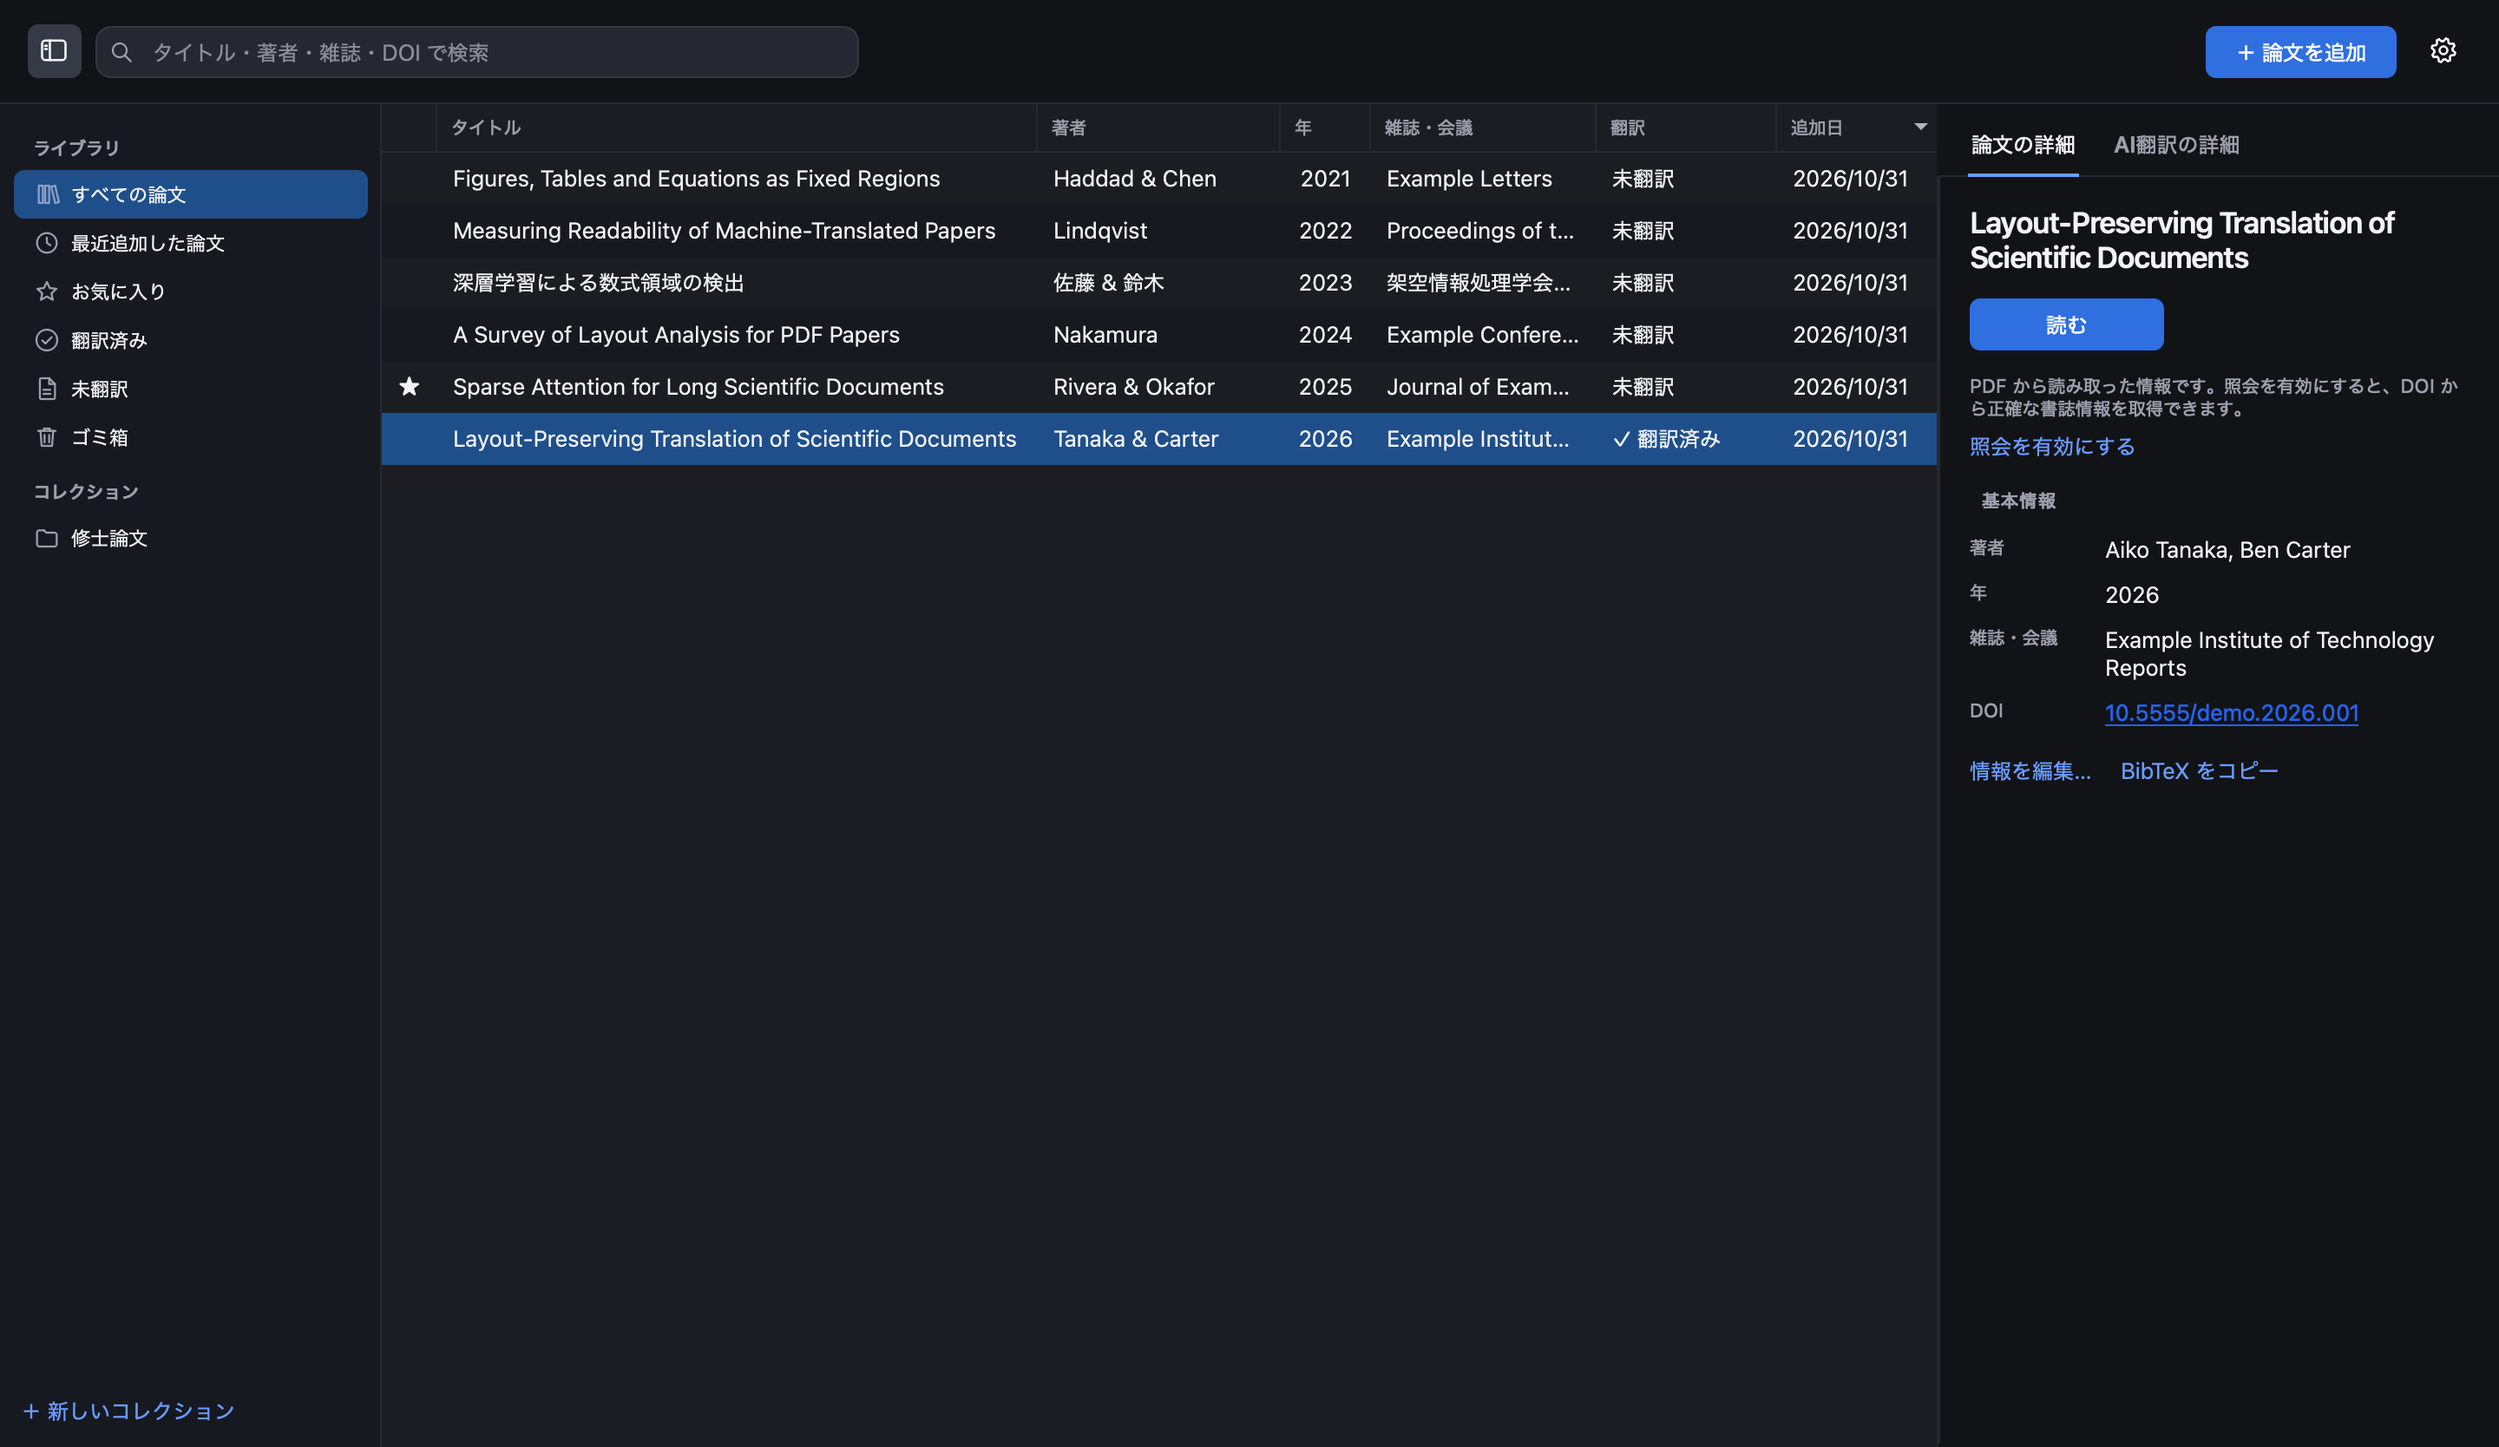
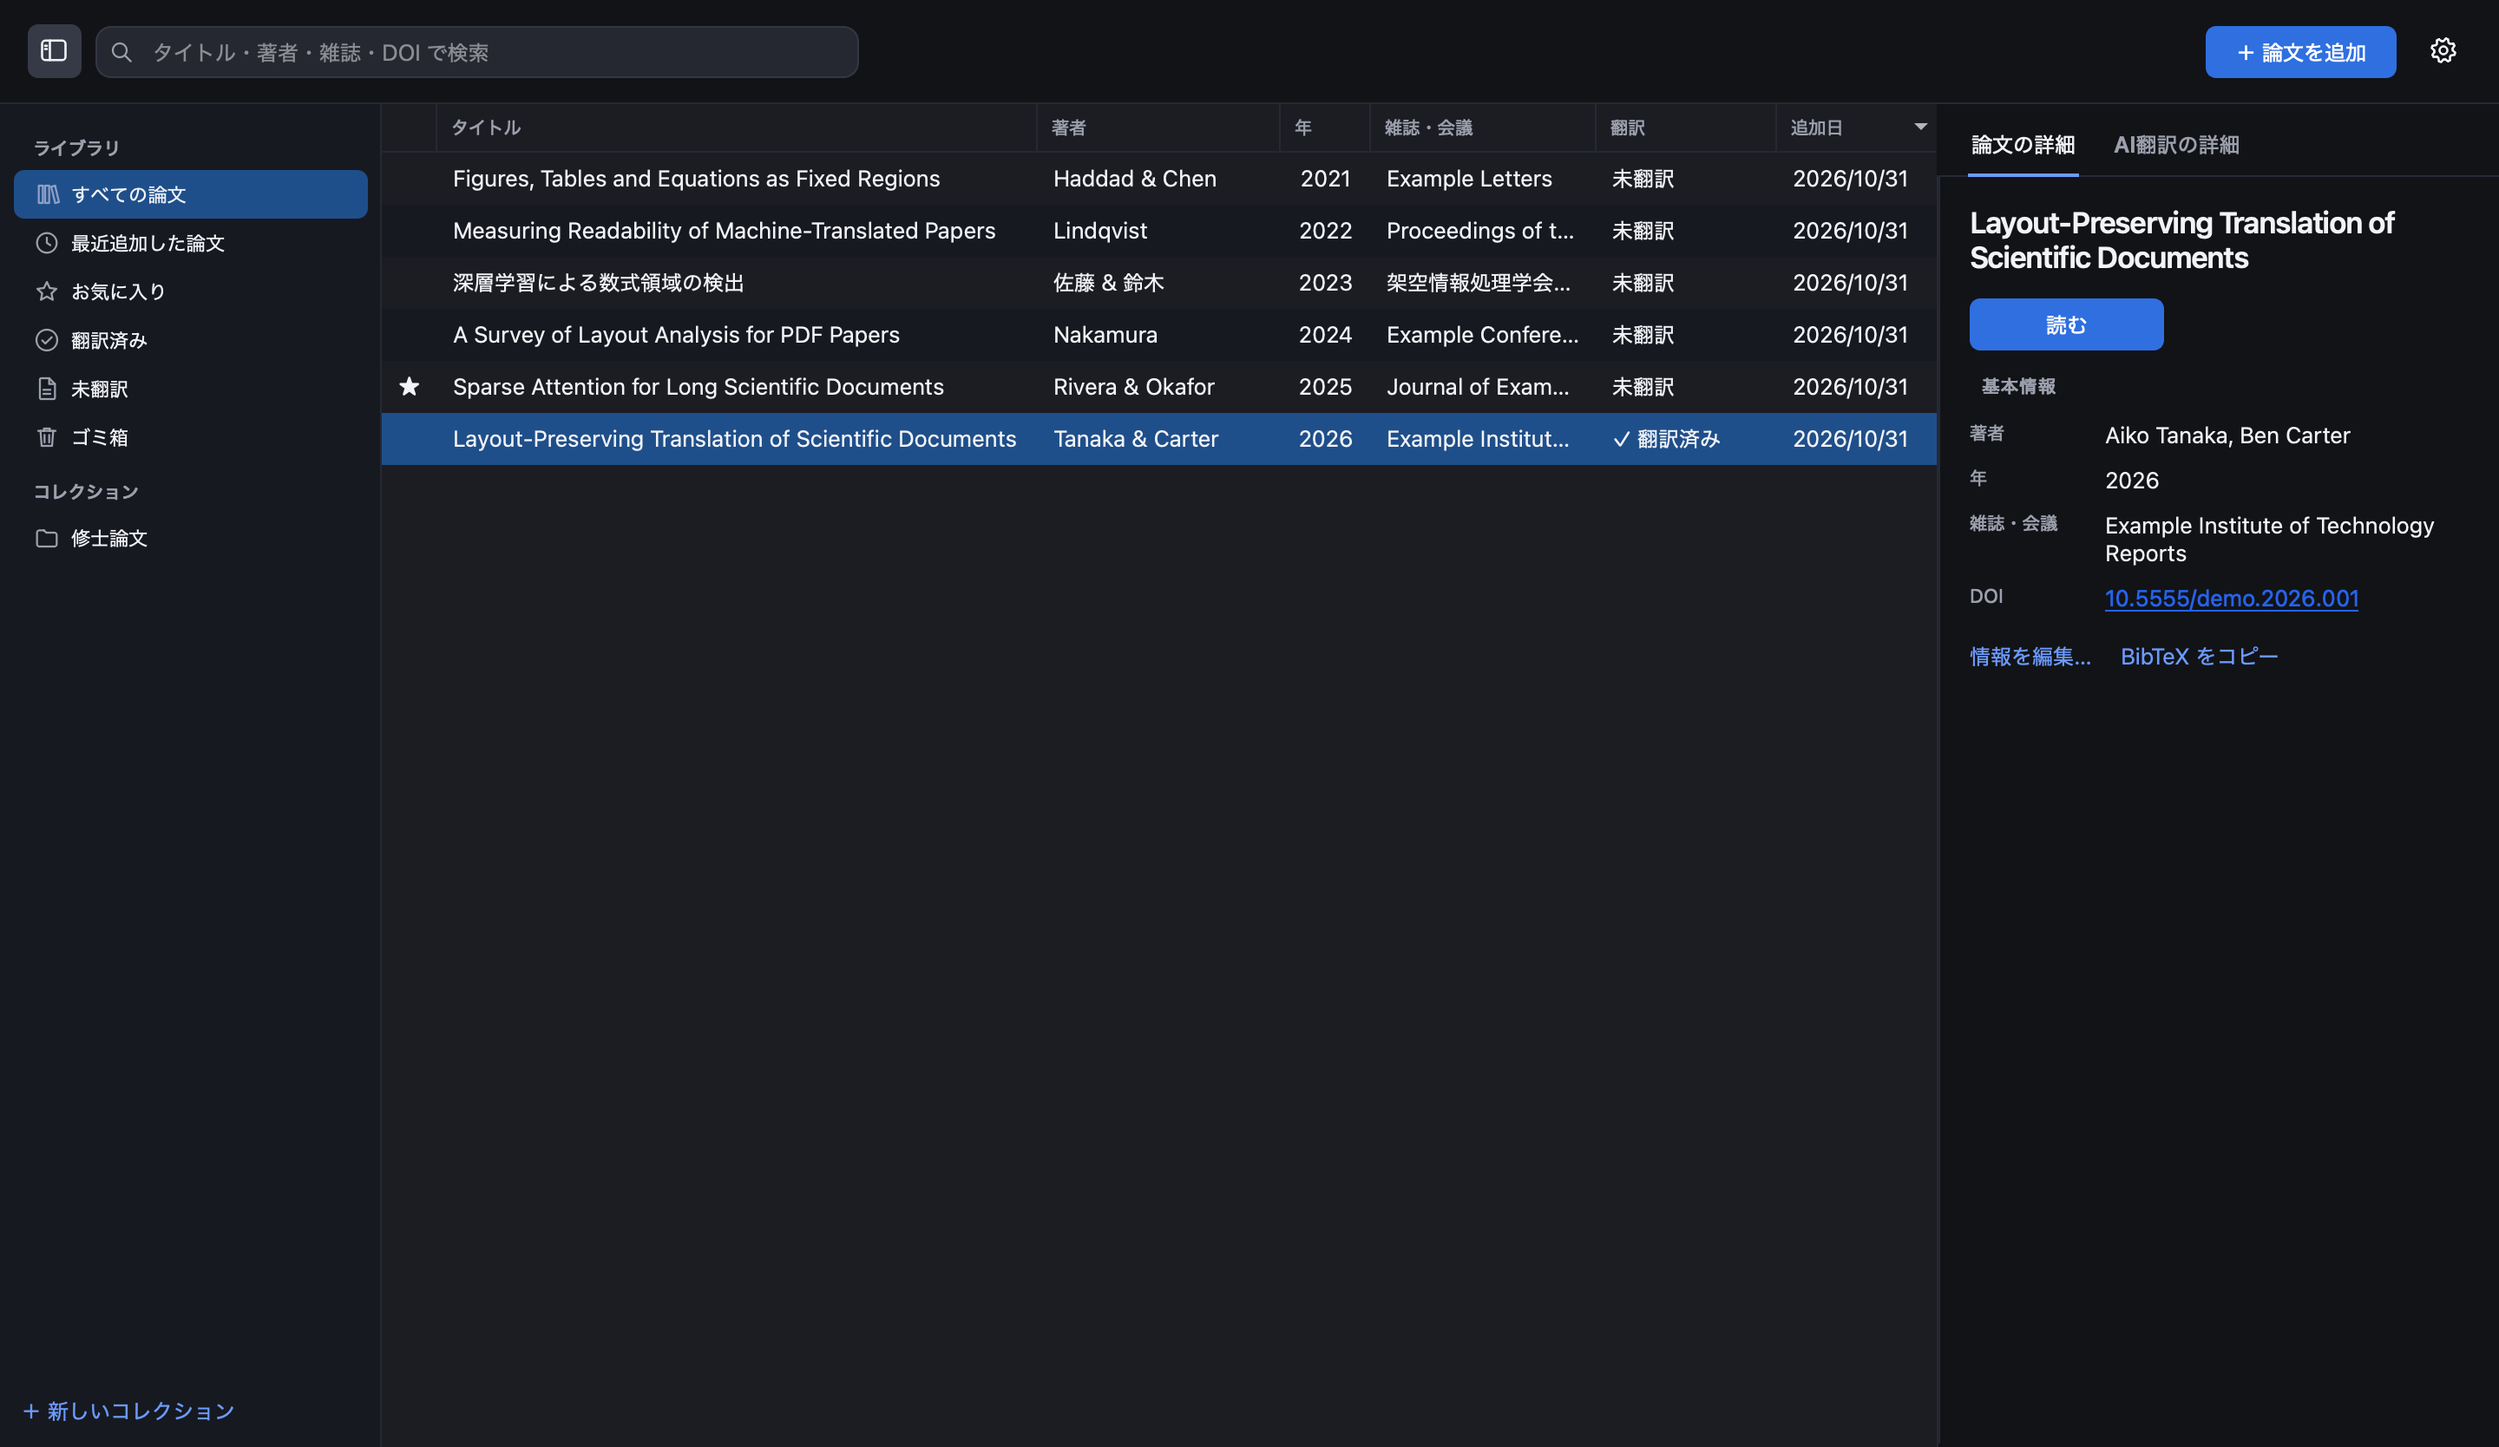
docs: ライブラリのスクリーンショットを、書誌情報の照会がオンの見た目で撮り直す
v0.2.0 からは照会が既定でオンなので、デモの論文を照会済みにして「照会を有効にする」の
案内が出ない、普段の画面で撮る。撮影中は照会の通信をしないように差し替えている。

Changed region(s): [[0.7812, 0.2494, 0.9688, 0.4988], [0.7812, 0.53, 0.875, 0.5612]]

diff --git a/scripts/screenshots.py b/scripts/screenshots.py
@@ -69,6 +69,7 @@ def _shoot(out: Path, scenes: list[str]) -> int:
     from spectra.config.secrets import SecretStore
     from spectra.config.settings import Settings
     from spectra.library import Library
+    from spectra.library import lookup as lookup_module
     from spectra.library.models import Author, Metadata
     from spectra.translate import registry
     from spectra.ui import theme
@@ -81,6 +82,8 @@ def _shoot(out: Path, scenes: list[str]) -> int:
     drive.mkdir(parents=True)
     # 擬似翻訳の代わりに、デモ論文の書き下ろしの訳文を使う
     registry.create = lambda *_a, **_k: demo_paper.DemoTranslator()
+    # 書誌情報の照会は既定でオンなので、画面もオンのときの見た目にする。ただし通信はしない
+    lookup_module.lookup = lambda *_a, **_k: None
 
     app = create_app([])
     work = home / "papers"
@@ -97,11 +100,13 @@ def _shoot(out: Path, scenes: list[str]) -> int:
         _blank_pdf(f, title)
         p, _ = lib.add(f, Metadata(title=title, authors=[Author(a, b) for a, b in authors], year=year, venue=venue, doi=doi))
         ids.append(p.id)
+    for pid in ids:
+        lib.set_meta_status(pid, "done")  # 照会済みの扱いにして「照会を有効にする」の案内を出さない
     lib.set_favorite(ids[1], True)
     col = lib.create_collection("修士論文")
     lib.add_to_collection(col.id, ids[:3])
 
-    settings = Settings(engine="gemini", metadata_lookup=False)
+    settings = Settings(engine="gemini", metadata_lookup=True)
     secrets = SecretStore(use_keyring=False)
     secrets.set("gemini", "demo-key-not-used")  # 一時フォルダの設定ファイルに入るだけで、どこにも送らない
     win = MainWindow(settings=settings, secrets=secrets, library=lib)
